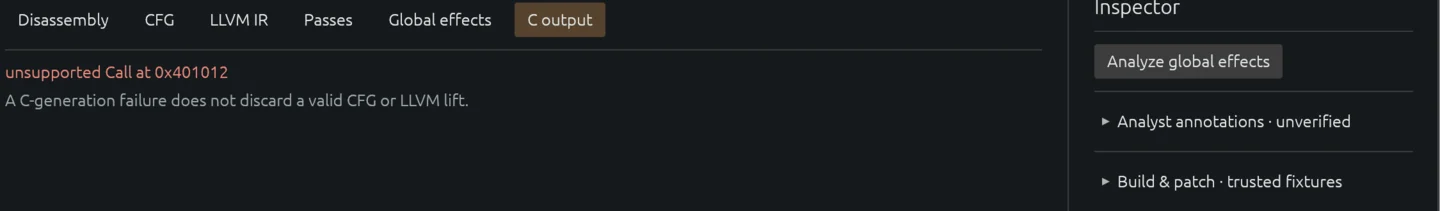
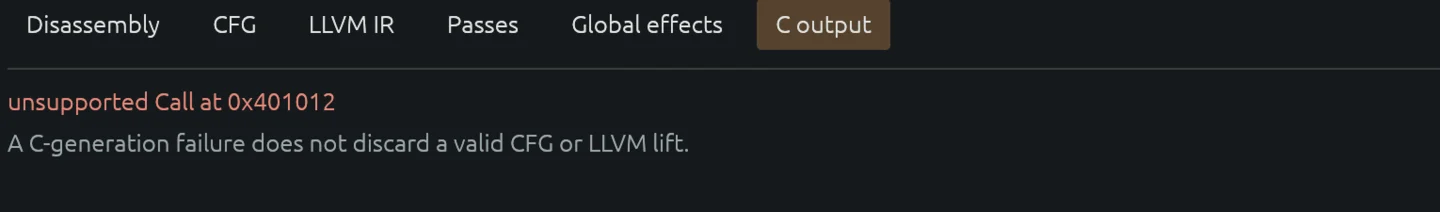
Tighten unsupported-call screenshot crop

diff --git a/blog/index.html b/blog/index.html
@@ -67,7 +67,7 @@ bash scripts/demo-corpus.sh</code></pre>
       <p>Import, CFG recovery, lifting, C generation, and whole-program rebuild are different contracts. A file can be imported without being liftable. A recovered function can have valid CFG and LLVM IR while C generation fails. The actual workbench diagnostic below is one such case: an unsupported <code>Call</code> stops C output, while the UI keeps the earlier artifacts available.</p>
 
       <figure>
-        <a href="assets/egui-refusal.webp"><img src="assets/egui-refusal.webp" width="1440" height="211" alt="Actual HydIR egui C output tab reporting unsupported Call at 0x401012 and preserving valid CFG or LLVM lift" loading="lazy"></a>
+        <a href="assets/egui-refusal.webp"><img src="assets/egui-refusal.webp" width="1440" height="212" alt="Actual HydIR egui C output tab reporting unsupported Call at 0x401012 and preserving valid CFG or LLVM lift" loading="lazy"></a>
         <figcaption>Actual egui diagnostic, cropped. Failure at a later stage does not silently erase an earlier valid result.</figcaption>
       </figure>
 
